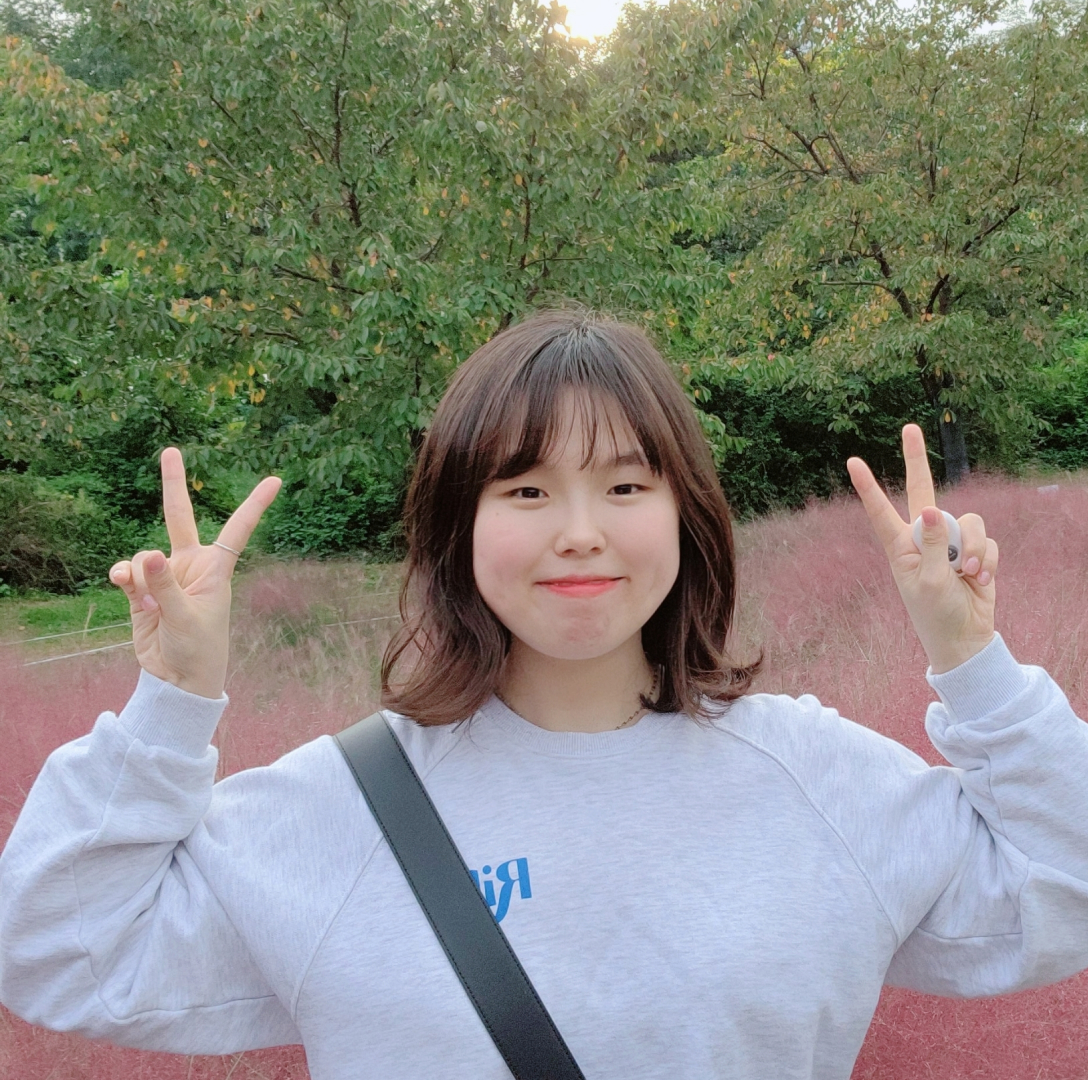
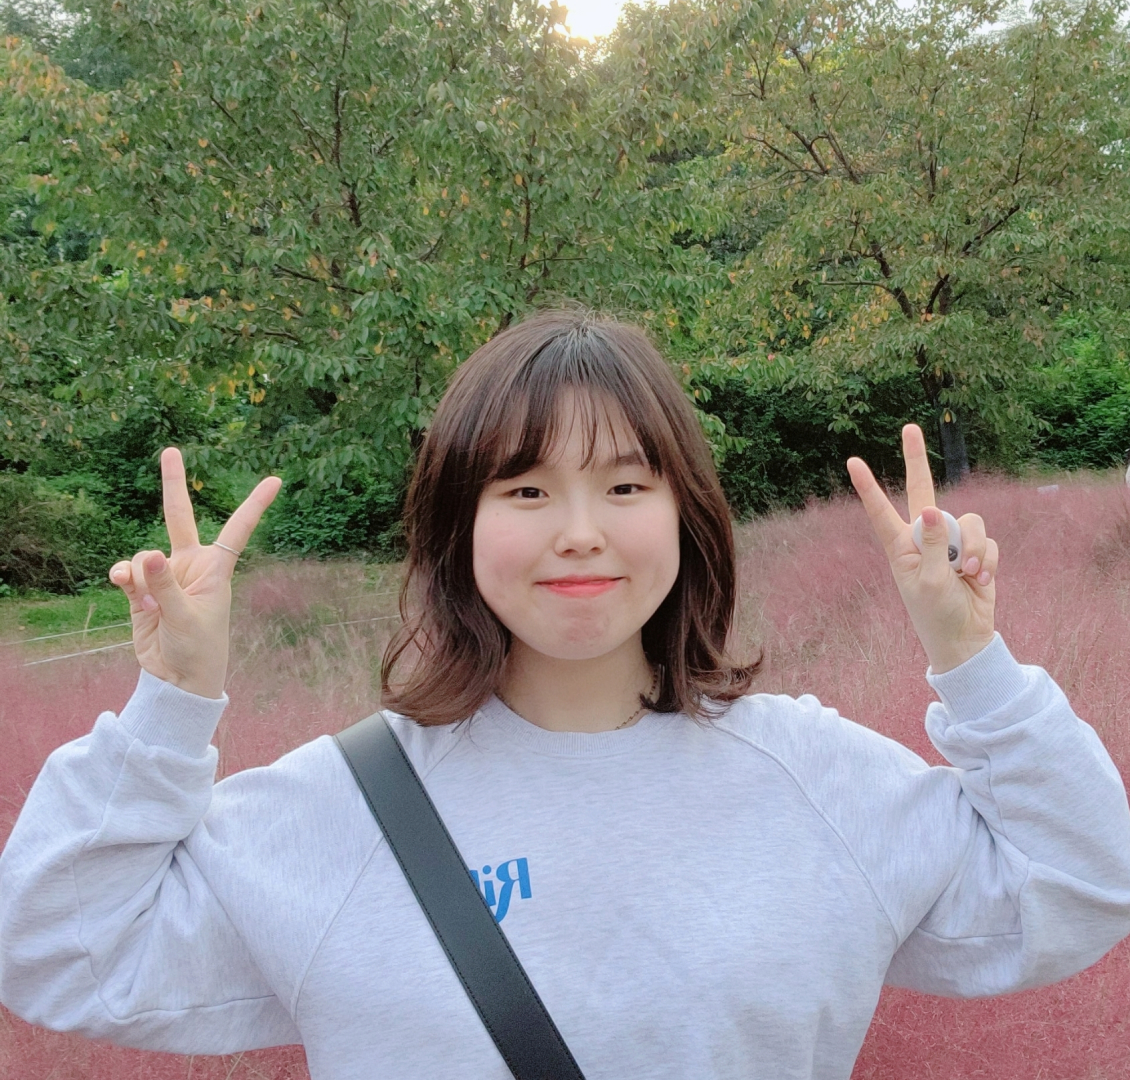
21.11.22 오전작업 포폴

diff --git a/Port/assets/css/style.css b/Port/assets/css/style.css
@@ -91,9 +91,8 @@ nav ul li a {
     background: #ecded6;
     width: 100%;
     height: 1080px;
-    
 }
-.aboutMe_text {
+.aboutMe_text1 {
     padding-top: 360px;
     font-family: var(--font-main);
     font-size: 7vw;
@@ -102,12 +101,12 @@ nav ul li a {
     position: relative;
     display: block;
 }
-.aboutMe_text span {
+.aboutMe_text1 span {
     position: relative;
     display: block;
     /* border-bottom: 5px solid #e59f3f; */
 }
-.aboutMe_text span::after {
+.aboutMe_text1 span::after {
     content: "";
     position: absolute;
     width: 20vw;
@@ -118,7 +117,7 @@ nav ul li a {
     background: #e59f3f;
     border-radius: 5px;
 }
-/* .aboutMe_text .text_line::before {
+/* .aboutMe_text1 .text_line::before {
     content: "";
     position: absolute;
     width: 12vw;
@@ -127,10 +126,115 @@ nav ul li a {
     background: #e59f3f;
     border-radius: 5px;
 }
-.aboutMe_text .text_line {
+.aboutMe_text1 .text_line {
     position: relative;
     width: 10vw;
     height: 1vh;
     background: #e59f3f;
     border-radius: 5px;
 } */
+
+#aboutMe2 {
+    width: 100%;
+    height: 1080px;
+    background: #BF3D49;
+}
+#aboutMe2 .aboutMe2_img {
+    float: left;
+    width: 1130px;
+    height: 1080px;
+}
+#aboutMe2 .aboutMe2_img img {}
+#aboutMe2 .aboutMe_text2 {
+    padding-top: 360px;
+    font-family: var(--font-main);
+    font-size: 5vw;
+    color: #e59f3f;
+    text-align: center;
+    position: relative;
+    display: block;
+}
+#aboutMe2 .aboutMe_text2 span {
+    position: relative;
+    display: block;
+}
+#aboutMe2 .aboutMe_text2 p {
+    font-family: var(--font-kor1);
+    font-size: 1.3vw;
+    color: #e59f3f;
+    position: relative;
+    display: inline-block;
+    top: -40px;
+}
+#aboutMe2 .scroll_circle {
+    width: 230px;
+    height: 230px;
+    position: absolute;
+    left: 77%;
+
+}
+#siteCoding_intro {
+    background: #ecded6;
+    width: 100%;
+    height: 1080px;
+}
+#siteCoding_intro .siteCoding_text {
+    padding-top: 360px;
+    font-family: var(--font-main);
+    font-size: 7vw;
+    color: #e59f3f;
+    text-align: center;
+    position: relative;
+    display: block;
+}
+#siteCoding_intro .siteCoding_text span {
+    position: relative;
+    display: block;
+}
+#siteCoding_intro .siteCoding_text em {
+    border-bottom: 7px solid #e59f3f;
+}
+#siteCoding {
+    width: 100%;
+    height: auto;
+}
+#siteCoding #cursor {
+    position: absolute;
+    width: 300px;
+    height: 300px;
+    border-radius: 50%;
+    background: url(../img/megabox.jpg) center center;
+    background-attachment: fixed;
+    background-size: cover;
+    overflow: hidden;
+    z-index: 10;
+}
+#siteCoding .megaboxSite {
+    position: relative;
+    width: 100%;
+    height: 1080px;
+    background: #296650;
+}
+#siteCoding .megaboxSite .desc {
+    font-family: var(--font-kor1);
+    color: #fff;
+    font-size: 24px;
+    font-weight: bold;
+    display: inline-block;
+    position: absolute;
+    left: 50%;
+    top: 50%;
+    transform: translate(-50%, -50%);
+}
+#siteCoding .megaboxSite .title {
+    font-family: var(--font-main);
+    font-size: 5vw;
+    color: #e59f3f;
+    text-align: center;
+    position: absolute;
+    display: inline-block;
+    text-transform: uppercase;
+    top: 58%; left: 50%;
+    transform: translate(-50%,-50%);
+}
+

diff --git a/Port/main.html b/Port/main.html
@@ -78,7 +78,7 @@
         </section>
         <section id="aboutMe1">
             <div class="noise">
-                <div class="aboutMe_text">
+                <div class="aboutMe_text1">
                    <span>HAPPY</span>
                    <span>PLAY</span>
                    <span>ENJOY</span>
@@ -86,7 +86,38 @@
             </div>
         </section>
         <section id="aboutMe2">
-            
+            <div class="noise">
+                <div class="aboutMe2_img">
+                    <img src="./assets/img/about1.jpg" alt="프로필사진"> 
+                </div>
+                <div class="aboutMe_text2">
+                    <span>HAPPY</span>
+                    <span>PLAY</span>
+                    <span>ENJOY</span>
+                    <p>HELLO! I’M BILLIE JEONG</p>
+                </div> 
+                <div class="scroll_circle">
+                    <img src="./assets/img/scroll.png" alt="스크롤써클">
+                </div>
+            </div>
+        </section>
+        <section id="siteCoding_intro">
+            <div class="noise">
+                <div class="siteCoding_text">
+                    <span>LET ME</span>
+                    <span><em>SHOW</em> YOU</span>
+                    <span>SITE <em>CODING</em></span>
+                </div>
+            </div>
+        </section>
+        <section id="siteCoding">
+            <div id="cursor"></div>
+                <div class="megaboxSite">
+                    <div class="noise">
+                        <p class="desc">메가박스 사이트를 반응형까지 구현하였습니다.</p>
+                        <div class="title">megabox</div>
+                    </div>
+                </div>
         </section>
     </main>
     
